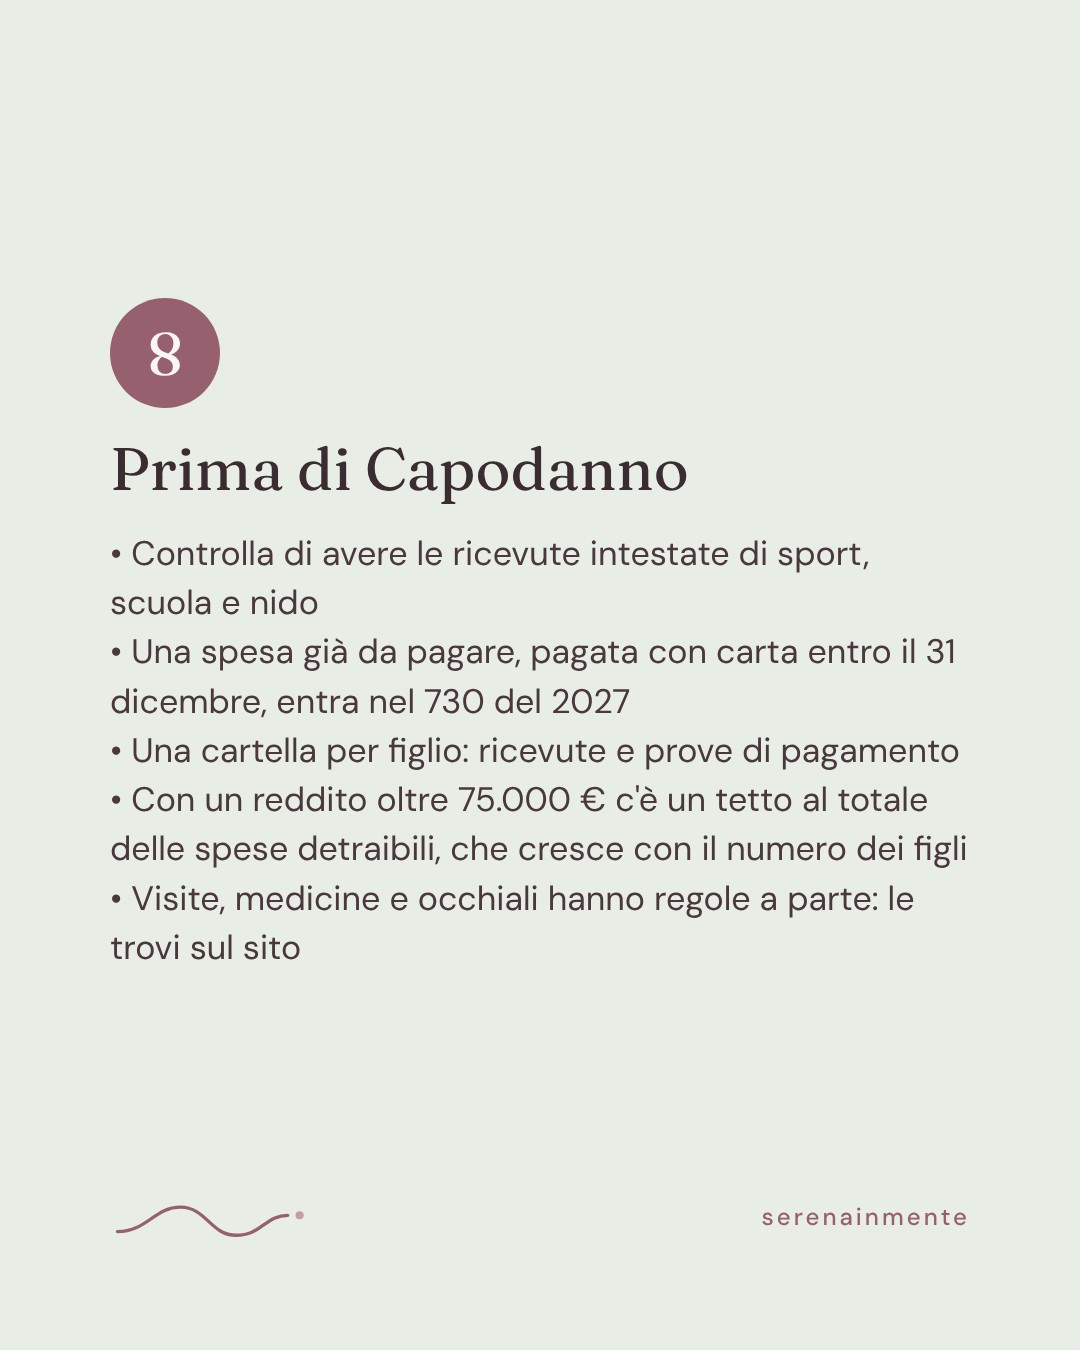
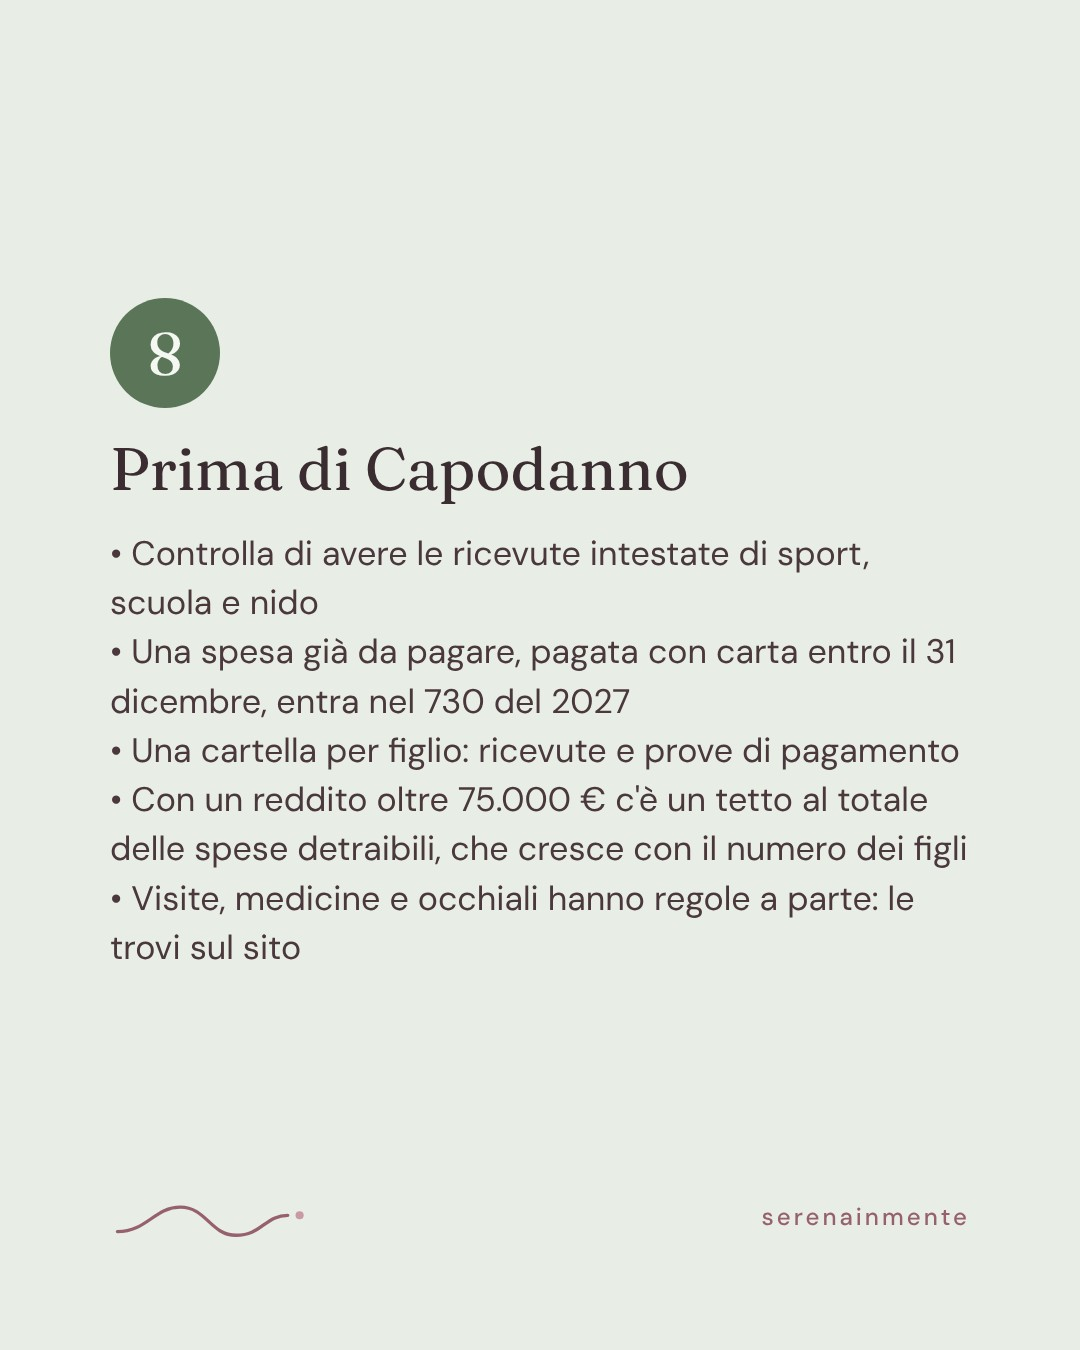
Rubrica Notizie utili: etichetta fissa in copertina, data di aggiornamento, accenti verde scuro (opzioni rubrica/aggiornato/rub in render.js)
Claude-Session: https://claude.ai/code/session_01PexKGrEoahLuMFXSH7a2SF

Changed region(s): [[0.0917, 0.2178, 0.2139, 0.3111]]

diff --git a/gen/grafiche/render.js b/gen/grafiche/render.js
@@ -4,7 +4,8 @@
 //   tipo "frase"      → frase, stile: "" (frase breve minuscola) | "pensiero" | "forte" | "riconoscimento" | "parola"
 //                       per "parola": parola, numero (n. del vocabolario), frase = definizione
 //                       freccia: true → aggiunge "→" (prima slide di una frase a sospeso)
-//   tipo "copertina"  → etichetta, titolo, sottotitolo   (prima slide di carosello o pratico)
+//   tipo "copertina"  → etichetta, titolo, sottotitolo [, rubrica, aggiornato]
+//   "rub": true su qualunque scheda → accenti verde scuro (rubrica Notizie utili, sfondo #E8EEE6)   (prima slide di carosello o pratico)
 //   tipo "passo"      → numero, titolo, testo            (slide centrali)
 //   tipo "chiusura"   → titolo, testo, fonte, nota       (ultima slide: in pratica + fonte)
 //   story: true       → formato storia 1080x1920 (solo tipo "frase")
@@ -39,6 +40,7 @@ const css = `
 .arrow{position:absolute;right:110px;top:1190px;font-family:Fraunces,serif;font-size:64px;color:#97606F}
 .story.c{height:1920px}.story .f{top:560px;height:640px}.story .t{top:1290px}.story .s{top:1640px}
 /* caroselli */
+.rub .eti,.rub .scorri,.rub .agg{color:#4F6B4C}.rub .num{background:#5B7558;color:#F4F7F2}.pill{align-self:flex-start;background:#5B7558;color:#F4F7F2;font-family:'DM Sans',sans-serif;font-weight:800;font-size:28px;letter-spacing:4px;padding:14px 28px;border-radius:44px;text-transform:uppercase;margin-bottom:6px}.agg{font-family:'DM Sans',sans-serif;font-weight:500;font-size:26px;margin-top:6px}
 .densa .k{gap:26px}.densa .pt{font-size:60px}.densa .px{font-size:34px;line-height:1.45}
 .k{position:absolute;left:110px;right:110px;top:150px;bottom:230px;display:flex;flex-direction:column;justify-content:center;gap:40px}
 .eti{font-family:'DM Sans',sans-serif;font-weight:800;font-size:26px;letter-spacing:5px;text-transform:uppercase;color:#97606F}
@@ -69,7 +71,7 @@ function corpo(it) {
   }
   const piede = `${filoMini}<div class="firma">serenainmente</div>`;
   if (tipo === 'copertina')
-    return `<div class="k"><div class="eti">${esc(it.etichetta)}</div><div class="tit">${esc(it.titolo)}</div>${it.sottotitolo ? `<div class="sot">${esc(it.sottotitolo)}</div>` : ''}</div><div class="scorri">scorri →</div>${piede}`;
+    return `<div class="k">${it.rubrica ? `<div class="pill">${esc(it.rubrica)}</div>` : ''}<div class="eti">${esc(it.etichetta)}</div><div class="tit">${esc(it.titolo)}</div>${it.sottotitolo ? `<div class="sot">${esc(it.sottotitolo)}</div>` : ''}${it.aggiornato ? `<div class="agg">${esc(it.aggiornato)}</div>` : ''}</div><div class="scorri">scorri →</div>${piede}`;
   if (tipo === 'passo')
     return `<div class="k"><div class="num">${esc(it.numero)}</div><div class="pt">${esc(it.titolo)}</div><div class="px">${esc(it.testo)}</div></div>${piede}`;
   if (tipo === 'chiusura')
@@ -88,7 +90,7 @@ function corpo(it) {
     const tipo = it.tipo || 'frase';
     const bg = it.sfondo || SFONDI[tipo] || '#FBF6F4';
     const h = it.story ? 1920 : 1350;
-    const cls = `c ${it.densa ? 'densa ' : ''}${tipo === 'frase' ? (it.stile || '') + (it.parola ? ' parola' + (String(it.frase || '').split('\n').length > 4 ? ' lunga' : '') : '') : ''} ${it.story ? 'story' : ''}`;
+    const cls = `c ${it.densa ? 'densa ' : ''}${(it.rub || it.rubrica) ? 'rub ' : ''}${tipo === 'frase' ? (it.stile || '') + (it.parola ? ' parola' + (String(it.frase || '').split('\n').length > 4 ? ' lunga' : '') : '') : ''} ${it.story ? 'story' : ''}`;
     await page.setViewportSize({ width: 1080, height: h });
     await page.setContent(`<!doctype html><html><head><meta charset="utf-8"><style>${css}</style></head><body><div class="${cls}" style="background:${bg}">${corpo(it)}</div></body></html>`, { waitUntil: 'load' });
     await page.evaluate(() => document.fonts.ready);
